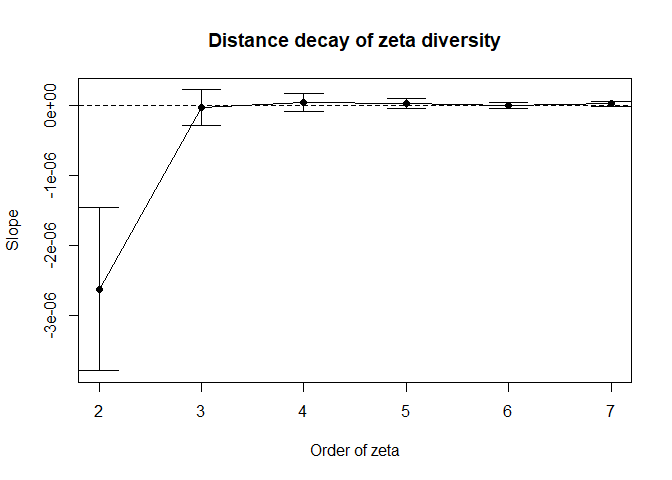
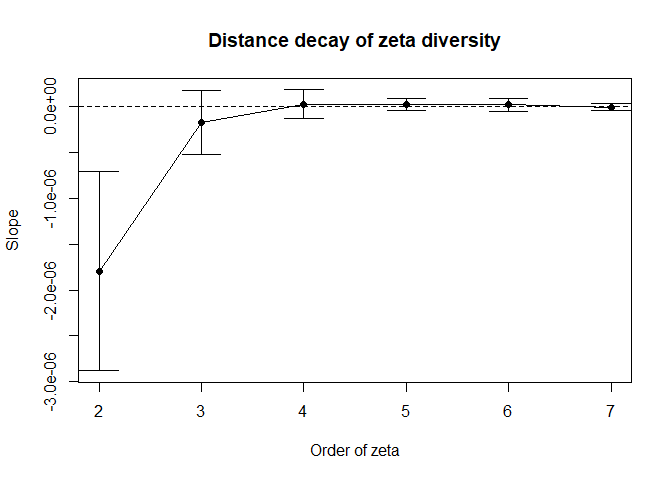
Update README

diff --git a/README.md b/README.md
@@ -1,55 +1,14 @@
-dissmapr: Workflow for Compositional Dissimilarity & Biodiversity
-Turnover Analysis
-================
-
-- [`dissmapr`](#dissmapr)
-- [`dissmapr`: A Novel Framework for Automated Compositional
-  Dissimilarity and Biodiversity Turnover
-  Analysis](#dissmapr-a-novel-framework-for-automated-compositional-dissimilarity-and-biodiversity-turnover-analysis)
-  - [Introduction](#introduction)
-  - [**dissmapr** provides a reproducible, end-to-end workflow for
-    computing and mapping compositional dissimilarity and biodiversity
-    turnover across large spatial and temporal scales. Core modules
-    handle occurrence retrieval, grid generation, environmental
-    extraction, order-wise dissimilarity, and bioregional
-    mapping.](#dissmapr-provides-a-reproducible-end-to-end-workflow-for-computing-and-mapping-compositional-dissimilarity-and-biodiversity-turnover-across-large-spatial-and-temporal-scales-core-modules-handle-occurrence-retrieval-grid-generation-environmental-extraction-order-wise-dissimilarity-and-bioregional-mapping)
-  - [Tutorial](#tutorial)
-  - [Installation](#installation)
-  - [Setup](#setup)
-  - [Load libraries](#load-libraries)
-  - [1. User-defined area of interest and grid
-    resolution](#1-user-defined-area-of-interest-and-grid-resolution)
-  - [2. Site by species matrix and sampling
-    effort](#2-site-by-species-matrix-and-sampling-effort)
-  - [3. Format data using `format_df`](#3-format-data-using-format_df)
-  - [4. Summarise records by grid using
-    `generate_grid`](#4-summarise-records-by-grid-using-generate_grid)
-  - [<img src="man/figures/README-map-aoi-1.png" width="100%" />](#section)
-  - [5. Summarise records by grid using
-    `generate_grid`](#5-summarise-records-by-grid-using-generate_grid)
-  - [6. Site by environment matrix](#6-site-by-environment-matrix)
-  - [7. If necessary project coordinates into meters projection
-    (e.g. UTM)](#7-if-necessary-project-coordinates-into-meters-projection-eg-utm)
-  - [8. Check for inter-correlation and remove highly corrected
-    variables](#8-check-for-inter-correlation-and-remove-highly-corrected-variables)
-  - [9. Zeta decline (sbs), orders 2:15](#9-zeta-decline-sbs-orders-215)
-  - [10. Zeta decays (sbs, xy), orders
-    2:15](#10-zeta-decays-sbs-xy-orders-215)
-  - [\> **Summary:** This figure shows that biodiversity patterns across
-    space are strongly shaped by distance at small scales, but this
-    effect weakens as you include more sites. In other words, rare or
-    localized species contribute to strong distance decay, but
-    widespread species dominate at higher spatial scales, leading to
-    more
-    uniformity.](#-summary-this-figure-shows-that-biodiversity-patterns-across-space-are-strongly-shaped-by-distance-at-small-scales-but-this-effect-weakens-as-you-include-more-sites-in-other-words-rare-or-localized-species-contribute-to-strong-distance-decay-but-widespread-species-dominate-at-higher-spatial-scales-leading-to-more-uniformity)
-  - [11. Zeta.msgdm(sbs, sbe, xy), order 2, 3, 5,
-    10](#11-zetamsgdmsbs-sbe-xy-order-2-3-5-10)
-  - [12. Predict(zeta2) with ‘sam.eff’](#12-predictzeta2-with-sameff)
-  - [13. Clustering analyses directly using
-    zeta.now](#13-clustering-analyses-directly-using-zetanow)
-  - [14. Predict(zeta2)](#14-predictzeta2)
-  - [15. Deposit all data frames, tables, maps, and standard metadata to
-    zenodo](#15-deposit-all-data-frames-tables-maps-and-standard-metadata-to-zenodo)
+---
+title: "dissmapr: Workflow for Compositional Dissimilarity & Biodiversity Turnover Analysis"
+output:
+  github_document:
+    toc: true
+    toc_depth: 2
+  html_document:
+    toc: true
+    theme: cerulean     # or bootstrap, etc.
+    mathjax: default
+---
 
 <!-- README.md is generated from README.Rmd. Please edit that file -->
 
@@ -765,7 +724,7 @@ plateaus.
 ``` r
 # Deviance explained summary results
 with(summary(zeta2$model), 1 - deviance/null.deviance) 
-#> [1] 0.2414894
+#> [1] 0.2613988
 # [1] 0.04414301
 # 0.04414301 means that approximately 4.41% of the variability in the response
 # variable is explained by your model. This is relatively low, suggesting that the
@@ -780,40 +739,40 @@ summary(zeta2$model)
 #>     cons.inter = cons.inter)
 #> 
 #> Coefficients:
-#>               Estimate Std. Error t value Pr(>|t|)    
-#> (Intercept)  8.869e-02  7.351e-03  12.066  < 2e-16 ***
-#> obs_sum1    -4.665e-02  3.312e-03 -14.086  < 2e-16 ***
-#> obs_sum2     0.000e+00  1.332e-02   0.000 1.000000    
-#> obs_sum3     0.000e+00  1.944e-02   0.000 1.000000    
-#> temp_mean1   0.000e+00  3.417e-02   0.000 1.000000    
-#> temp_mean2  -5.005e-03  1.092e-02  -0.458 0.646968    
-#> temp_mean3   0.000e+00  1.455e-02   0.000 1.000000    
-#> iso1        -1.257e-02  1.319e-02  -0.953 0.340971    
-#> iso2         0.000e+00  8.702e-03   0.000 1.000000    
-#> iso3         0.000e+00  1.137e-02   0.000 1.000000    
-#> temp_wetQ1   0.000e+00  9.971e-03   0.000 1.000000    
-#> temp_wetQ2  -3.370e-03  8.526e-03  -0.395 0.692751    
-#> temp_wetQ3  -2.627e-05  1.186e-02  -0.002 0.998233    
-#> temp_dryQ1  -6.591e-03  3.064e-02  -0.215 0.829718    
-#> temp_dryQ2   0.000e+00  9.984e-03   0.000 1.000000    
-#> temp_dryQ3   0.000e+00  1.091e-02   0.000 1.000000    
-#> rain_dry1   -1.026e-02  6.911e-03  -1.485 0.137882    
-#> rain_dry2    0.000e+00  7.889e-03   0.000 1.000000    
-#> rain_dry3    0.000e+00  1.172e-02   0.000 1.000000    
-#> rain_warmQ1 -5.756e-03  7.521e-03  -0.765 0.444250    
-#> rain_warmQ2  0.000e+00  8.907e-03   0.000 1.000000    
-#> rain_warmQ3 -5.231e-04  1.504e-02  -0.035 0.972258    
-#> distance1   -3.636e-02  1.066e-02  -3.409 0.000678 ***
-#> distance2    0.000e+00  1.046e-02   0.000 1.000000    
-#> distance3   -2.042e-02  1.386e-02  -1.473 0.141060    
+#>              Estimate Std. Error t value Pr(>|t|)    
+#> (Intercept)  0.093383   0.008003  11.669   <2e-16 ***
+#> obs_sum1    -0.054336   0.003652 -14.879   <2e-16 ***
+#> obs_sum2     0.000000   0.016067   0.000   1.0000    
+#> obs_sum3    -0.004141   0.023890  -0.173   0.8624    
+#> temp_mean1   0.000000   0.041238   0.000   1.0000    
+#> temp_mean2  -0.016894   0.012707  -1.329   0.1840    
+#> temp_mean3   0.000000   0.016232   0.000   1.0000    
+#> iso1        -0.004153   0.014175  -0.293   0.7696    
+#> iso2         0.000000   0.009543   0.000   1.0000    
+#> iso3        -0.007738   0.014430  -0.536   0.5919    
+#> temp_wetQ1   0.000000   0.011846   0.000   1.0000    
+#> temp_wetQ2  -0.006330   0.010348  -0.612   0.5409    
+#> temp_wetQ3  -0.002776   0.013578  -0.204   0.8380    
+#> temp_dryQ1   0.000000   0.037884   0.000   1.0000    
+#> temp_dryQ2  -0.007393   0.012023  -0.615   0.5387    
+#> temp_dryQ3   0.000000   0.012874   0.000   1.0000    
+#> rain_dry1   -0.016038   0.007734  -2.074   0.0384 *  
+#> rain_dry2    0.000000   0.009204   0.000   1.0000    
+#> rain_dry3    0.000000   0.013271   0.000   1.0000    
+#> rain_warmQ1 -0.002311   0.008153  -0.283   0.7769    
+#> rain_warmQ2 -0.004569   0.009971  -0.458   0.6469    
+#> rain_warmQ3  0.000000   0.016865   0.000   1.0000    
+#> distance1   -0.024473   0.011760  -2.081   0.0377 *  
+#> distance2    0.000000   0.012084   0.000   1.0000    
+#> distance3   -0.022584   0.014932  -1.512   0.1308    
 #> ---
 #> Signif. codes:  0 '***' 0.001 '**' 0.01 '*' 0.05 '.' 0.1 ' ' 1
 #> 
-#> (Dispersion parameter for gaussian family taken to be 0.001350902)
+#> (Dispersion parameter for gaussian family taken to be 0.001759128)
 #> 
-#>     Null deviance: 1.7365  on 999  degrees of freedom
-#> Residual deviance: 1.3171  on 975  degrees of freedom
-#> AIC: -3742.4
+#>     Null deviance: 2.3222  on 999  degrees of freedom
+#> Residual deviance: 1.7151  on 975  degrees of freedom
+#> AIC: -3478.4
 #> 
 #> Number of Fisher Scoring iterations: 2
 ```
